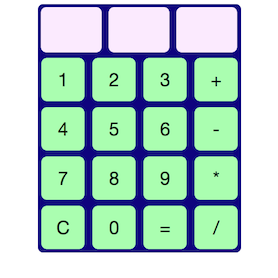
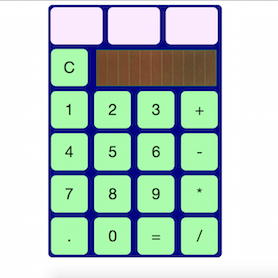
edited css and changed picture on portfolio

diff --git a/public/css/calculator.css b/public/css/calculator.css
@@ -1,4 +1,9 @@
+body {
+    color: #000;
+}
+
 section {
+    margin: 10px 0;
     width: 400px;
     margin-left: auto;
     margin-right: auto;
@@ -12,7 +17,7 @@ section {
 }
 
 .textBoxes {
-    width: 116px;
+    width: 119px;
     height: 85px;
     border: 1px solid #fbeaff;
     border-radius: 10px;
@@ -22,7 +27,7 @@ section {
 }
 
 .button {
-    width: 85px;
+    width: 84px;
     height: 85px;
     border: 1px solid #abfcac;
     border-radius: 10px;
@@ -30,4 +35,14 @@ section {
     font-size: 36px;
     background-color: #abfcac;
     outline: none;
+}
+
+.solarPanel {
+    float: right;
+    width: 276px;
+    height: 83px;
+    margin: 4px 6px;
+}
+img{
+    border: 1px solid #008000;
 }

diff --git a/app/views/calculator.php b/app/views/calculator.php
@@ -3,72 +3,79 @@
 <html>
 
 <head>
-
     <title>Calculator</title>
 
+    <link rel="stylesheet" href="https://maxcdn.bootstrapcdn.com/bootstrap/3.3.5/css/bootstrap.min.css">
     <link rel="stylesheet" href="/css/calculator.css">
-
 </head>
 
 <body>
-
     <section>
-
-        <div id="container">
-
+        <div id="container" class="col-md-12">
             <div id="display">
+                <div class="row">
+                    <input id="leftTextBox" class="textBoxes" name="left" type="text" readonly>
 
-                <input id="leftTextBox" class="textBoxes" name="left" type="text" readonly>
-
-                <input id="middleTextBox" class="textBoxes" name="middle" type="text" readonly>
-                
-                <input id="rightTextBox" class="textBoxes" name="right" type="text" readonly>
+                    <input id="middleTextBox" class="textBoxes" name="middle" type="text" readonly>
+                    
+                    <input id="rightTextBox" class="textBoxes" name="right" type="text" readonly>
+                </div>
 
             </div>
 
             <div id="buttons">
+                <div class="row">
+                    <button id="clear" class="button">C</button>
+                    <div class="solarPanel">
+                        <img class="solarPanel" src="img/solar_panels.jpg">
+                    </div>
+                </div>
 
-                <button id="numOne" class="button">1</button>
+                <div class="row">
+                    <button id="numOne" class="button">1</button>
 
-                <button id="numTwo" class="button">2</button>
+                    <button id="numTwo" class="button">2</button>
 
-                <button id="numThree" class="button">3</button>
+                    <button id="numThree" class="button">3</button>
 
-                <button id="add" class="button">+</button>
+                    <button id="add" class="button">+</button>
+                </div>
 
-                <button id="numFour" class="button">4</button>
+                <div class="row">
+                    <button id="numFour" class="button">4</button>
 
-                <button id="numFive" class="button">5</button>
+                    <button id="numFive" class="button">5</button>
 
-                <button id="numSix" class="button">6</button>
+                    <button id="numSix" class="button">6</button>
 
-                <button id="subtract" class="button">-</button>
+                    <button id="subtract" class="button">-</button>
+                </div>
 
-                <button id="numSeven" class="button">7</button>
+                <div class="row">
+                    <button id="numSeven" class="button">7</button>
 
-                <button id="numEight" class="button">8</button>
+                    <button id="numEight" class="button">8</button>
 
-                <button id="numNine" class="button">9</button>
+                    <button id="numNine" class="button">9</button>
 
-                <button id="multiply" class="button">*</button>
+                    <button id="multiply" class="button">*</button>
+                </div>
 
-                <button id="clear" class="button">C</button>
-                
-                <button id="numZero" class="button">0</button>
+                <div class="row">
+                    <button id="decimal" class="button">.</button>
+                    
+                    <button id="numZero" class="button">0</button>
 
-                <button id="equal" class="button">=</button>
+                    <button id="equal" class="button">=</button>
 
-                <button id="divide" class="button">/</button>
+                    <button id="divide" class="button">/</button>
+                </div>
 
             </div>
         </div>
-
     </section>
 
-<script type="text/javascript" src="https://code.jquery.com//jquery-2.1.1.min.js"></script>
-<script src="/js/calculator.js">
-</script>
+    <script src="/js/calculator.js"></script>
 
 </body>
-
 </html>
